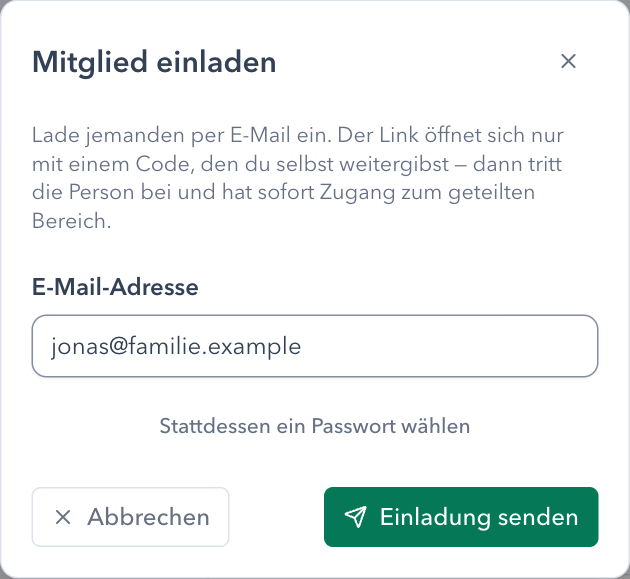
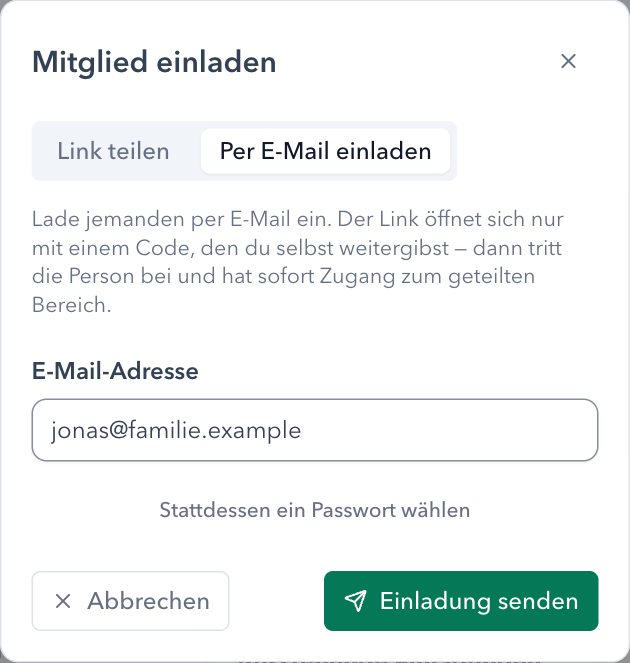
docs(site): the invite dialog's screenshots after ADR 0129, and the link invite's result
- owners-invite re-captured: the dialog now opens on "Share a link" beside
  "Invite by email" (EN+DE);
- owners-invite-link is new: the dialog after "Create link", with the message,
  the ways to pass it on and the warning, placed on "Invite and manage
  members" (EN+DE);
- the shots' owner confirms their address in the space seed: a bootstrap owner
  starts unconfirmed (ADR 0074 decision 2), so every owner shot of the app
  would otherwise carry the unconfirmed-address banner.

Captured by scripts/site_capture.py --only owners-invite,owners-invite-link,
getting-started-accept-form,getting-started-accept-kit,spaces-new-menu against
fresh veyq:local / veyq-admin:local images (green, both languages); the
accept-form/kit and spaces-new-menu shots came out byte-identical, so the join
page and the app shell's top needed no new image. site: pnpm run check green.

diff --git a/tests/e2e/shots/site.shots.ts b/tests/e2e/shots/site.shots.ts
@@ -198,6 +198,22 @@ function names(w: World) {
 
 let kitPdf = ''
 
+/** The space's owner confirms their address: the bootstrap owner starts unconfirmed (ADR 0074 decision 2), and the app
+ *  then carries the banner that cannot be dismissed (ADR 0129 decision 5) on every page. The shots show the app as a
+ *  member with a confirmed address sees it, as everyone a mailed invite brought in already is. */
+async function confirmAddress(w: World, page: Page, email: string): Promise<void> {
+  const banner = page.getByRole('region', { name: w.t('Email address not confirmed', 'E-Mail-Adresse nicht bestätigt') })
+  await banner.getByRole('button', { name: w.t('Send confirmation mail', 'Bestätigungsmail senden') }).click()
+  let link = ''
+  await expect.poll(async () => {
+    const mails = await mailsTo(email, /./)
+    link = mails.map((m) => /https:\/\/\S+\/confirm-email#\S+/.exec(m.text)?.[0] ?? '').find(Boolean) ?? ''
+    return link
+  }, { timeout: 60_000 }).not.toBe('')
+  await page.goto(link)
+  await expect(page.getByText(w.t('Your email address is confirmed.', 'Deine E-Mail-Adresse ist bestätigt.'))).toBeVisible({ timeout: 60_000 })
+}
+
 seed('space', async (w) => {
   const link = await createTenant(w)
   w.owner = await w.device()
@@ -207,6 +223,7 @@ seed('space', async (w) => {
   await saveKit(w, page, w.cast.owner)
   await acceptAndSignIn(w, page, w.cast.owner)
   await setUpMail(w, page)
+  await confirmAddress(w, page, w.cast.owner.email)
   const invite = await inviteMember(w, page, w.cast.member)
   w.member = await w.device()
   await openLink(w.member.page, invite.link)
@@ -349,6 +366,18 @@ shot('owners-invite', async (w) => {
   await d.getByRole('button', { name: w.t('Invite by email', 'Per E-Mail einladen') }).click()
   await d.getByLabel(w.t('Email address', 'E-Mail-Adresse')).fill(w.t('jordan@family.example', 'jonas@familie.example'))
   await capture(w, 'owners-invite', d)
+  await closeDialogs(page)
+})
+
+shot('owners-invite-link', async (w) => {
+  const { page } = w.owner
+  await openSettings(w, page, w.t('Members', 'Mitglieder'))
+  await page.getByRole('button', { name: w.t('Invite member', 'Mitglied einladen') }).click()
+  const d = dialog(page, w.t('Invite member', 'Mitglied einladen'))
+  // The dialog opens on sharing a link (ADR 0129 decision 1).
+  await d.getByRole('button', { name: w.t('Create link', 'Link erstellen') }).click()
+  await expect(d.getByTestId('invite-link-result')).toBeVisible({ timeout: 60_000 })
+  await capture(w, 'owners-invite-link', d)
   await closeDialogs(page)
 })
 
